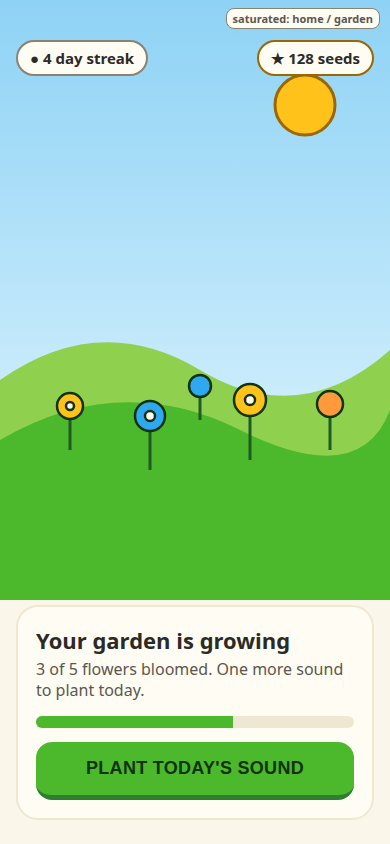
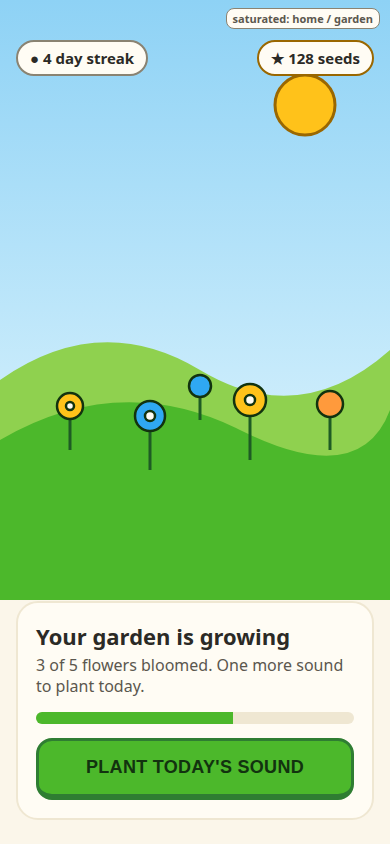
research: colour v3 - single primary action, lesson header band, hero outline ratios, feedback evidence

Changed region(s): [[0.0923, 0.7393, 0.9231, 0.955]]

diff --git a/research/mockups/colour.html b/research/mockups/colour.html
@@ -14,9 +14,9 @@
 body{background:#d9d4c4;font-family:system-ui,-apple-system,"Segoe UI",Roboto,sans-serif;color:var(--text);padding:20px;display:flex;flex-wrap:wrap;gap:20px}
 .screen{width:390px;height:844px;position:relative;overflow:hidden;background:var(--bg);flex:none}
 .btn{display:block;width:100%;border:0;border-radius:16px;padding:16px;font-size:18px;font-weight:800;letter-spacing:.3px;text-align:center}
-.btn.hero{background:var(--hero);color:var(--hero-ink);border-bottom:5px solid var(--hero-edge)}
+.btn.hero{background:var(--hero);color:var(--hero-ink);border:3px solid var(--hero-edge);border-bottom-width:6px}
 .btn.calm{background:var(--leaf);color:#fff;border-bottom:4px solid #1E5C24}
-.btn.ghost{background:var(--card);color:var(--sky);border:2px solid var(--border)}
+.btn.ghost{background:var(--card);color:var(--sky);border:2px solid var(--sky)}
 .btn.sunb{background:var(--sun-hero);color:var(--text);border-bottom:5px solid var(--sun-edge)}
 .chip{display:inline-flex;align-items:center;gap:6px;background:var(--card);border:2px solid var(--border);border-radius:999px;padding:6px 12px;font-weight:700;font-size:15px}
 .tag{position:absolute;top:8px;right:10px;font-size:11px;font-weight:700;color:var(--muted);background:var(--card);border-radius:8px;padding:2px 6px;z-index:5;border:1px solid var(--border)}
@@ -28,9 +28,9 @@ body{background:#d9d4c4;font-family:system-ui,-apple-system,"Segoe UI",Roboto,sa
 .panel h2{font-size:22px;margin-bottom:4px}.panel p{color:var(--muted);font-size:16px;margin-bottom:14px;line-height:1.35}
 .bar{height:12px;background:var(--tint);border-radius:8px;margin:10px 0 14px;overflow:hidden}.bar i{display:block;height:100%;width:62%;background:var(--hero)}
 /* lesson */
-.top{display:flex;align-items:center;gap:12px;padding:44px 20px 0}
-.prog{flex:1;height:14px;background:var(--tint);border-radius:8px;overflow:hidden}.prog i{display:block;height:100%;width:45%;background:var(--leaf);border-radius:8px}
-.prompt{padding:28px 24px 0}.prompt small{color:var(--muted);font-size:16px}
+.top{display:flex;align-items:center;gap:12px;padding:44px 20px 22px;background:linear-gradient(#8ED2F5,#BFE6FA)}
+.prog{flex:1;height:18px;background:var(--card);border:2px solid var(--hero-edge);border-radius:10px;overflow:hidden}.prog i{display:block;height:100%;width:45%;background:var(--hero);border-radius:8px}
+.prompt{padding:24px 24px 0}.prompt small{color:var(--muted);font-size:16px}
 .big{font-size:92px;font-weight:800;text-align:center;margin:18px 0 6px;letter-spacing:2px}
 .big u{text-decoration:underline;text-decoration-thickness:6px;text-decoration-color:var(--leaf);text-underline-offset:10px}
 .opts{padding:6px 20px;display:grid;gap:12px}
@@ -43,12 +43,11 @@ body{background:#d9d4c4;font-family:system-ui,-apple-system,"Segoe UI",Roboto,sa
 .sheet.r h3{color:var(--right)}.sheet.w h3{color:var(--wrong)}
 .sheet p{font-size:17px;margin-bottom:14px;line-height:1.35}
 /* reward */
-.rw{background:linear-gradient(#FFE78A,#FFC21A 70%,#F5B301)}
+.rw{background:linear-gradient(#FFE78A,#FFC21A 60%)}
 .rw .mid{position:absolute;top:120px;left:0;right:0;text-align:center}
 .rw h1{font-size:34px;margin-top:6px;color:var(--text)}.rw p{font-size:18px;margin:6px 30px;color:var(--text);line-height:1.35}
 .rw .btns{position:absolute;left:20px;right:20px;bottom:34px;display:grid;gap:12px}
 .rw .stats{display:flex;gap:10px;justify-content:center;margin-top:18px}
-.btn.dark{background:var(--text);color:#FFF6D6;border-bottom:5px solid #000}
 </style></head><body>
 
 <!-- 1 HOME -->
@@ -85,7 +84,7 @@ body{background:#d9d4c4;font-family:system-ui,-apple-system,"Segoe UI",Roboto,sa
  <div class="sheet w">
   <h3><svg width="32" height="32" viewBox="0 0 30 30"><circle cx="15" cy="15" r="14" fill="#A84A07"/><path d="M7 17c3-4 5 4 8 0s5 4 8 0" stroke="#FBE9D6" stroke-width="2.8" fill="none" stroke-linecap="round"/></svg>Try again</h3>
   <p>Close. Listen once more: "sh" is the sound in <b>ship</b>.</p>
-  <button class="btn ghost">HEAR IT AGAIN</button>
+  <button class="btn hero" style="margin-bottom:10px">TRY AGAIN</button><button class="btn ghost">HEAR IT AGAIN</button>
  </div>
 </section>
 
@@ -102,7 +101,7 @@ body{background:#d9d4c4;font-family:system-ui,-apple-system,"Segoe UI",Roboto,sa
  <div class="sheet r">
   <h3><svg width="32" height="32" viewBox="0 0 30 30"><circle cx="15" cy="15" r="14" fill="#0F766E"/><path d="M8 16l5 5 9-11" stroke="#DDF1EE" stroke-width="3.2" fill="none" stroke-linecap="round" stroke-linejoin="round"/></svg>Yes!</h3>
   <p><b>sh</b> as in <b>ship</b>. A new seed is planted.</p>
-  <button class="btn calm">CONTINUE</button>
+  <button class="btn hero">CONTINUE</button>
  </div>
 </section>
 
@@ -122,6 +121,6 @@ body{background:#d9d4c4;font-family:system-ui,-apple-system,"Segoe UI",Roboto,sa
   <p>The Sh Daisy joins your garden. 5 of 5 flowers today.</p>
   <div class="stats"><span class="chip" style="border-color:#2B2A26">&#9733; +20 seeds</span><span class="chip" style="border-color:#2B2A26">&#9679; 5 day streak</span></div>
  </div>
- <div class="btns"><button class="btn dark">SEE MY GARDEN</button><button class="btn hero" style="border-bottom-color:#1E5C24">NEXT SOUND</button></div>
+ <div class="btns"><button class="btn hero">NEXT SOUND</button><button class="btn ghost">SEE MY GARDEN</button></div>
 </section>
 </body></html>

diff --git a/research/02-colour.md b/research/02-colour.md
@@ -4,6 +4,15 @@ Scope: Sound Garden, a free no-login English reading site for children and adult
 Evidence grades: **A** primary study or peer-reviewed review, **B** expert guideline or standard, **C** blog, vendor page or practice.
 Date of research: 2026-10-09. Search tooling was flaky (several queries timed out); items I could not verify are marked "not verified" and nothing is invented.
 
+## Decisions (read first)
+
+- **Owed: live test.** No user test has been done; Kamal's playtest with his children (plus an adult learner, a colour-blind participant, a cheap phone in sun) is a build-phase gate. Everything below is research and design, not user evidence.
+- **Muted inside a lesson text area, saturated outside it** (2.2b). The lesson screen gets one saturated element outside the text area: a sky header band with a bright progress bar.
+- **One primary action colour.** Hero green `#4CB82B` with dark ink `#12330F` is the single primary button on every screen. Secondary actions are cream with a sky outline and sky text. Charcoal `#2B2A26` is text only, never a button.
+- **Hero buttons are outlined on the full perimeter** in `#2F7D32` (4.75:1 against cream), with a thicker bottom edge for the 3D feel.
+- **Right/wrong/reward:** teal check, brown-orange wobble (never red), gold with dark outline. Icon plus word plus sound, never colour alone.
+- **Default ground is cream; switcher offers peach and blue-grey.** Green text uses `--leaf-text #2A7230`.
+
 ## 1. Findings by area
 
 ### 1.1 Colour, children's learning and attention
@@ -81,6 +90,19 @@ Design consequences:
 - Avoid mid-lightness tints for state backgrounds carrying small text. Our tints are very light with dark text.
 - Dark mode is an option (night, battery on OLED). Its ground is `#111814`, near-black, not `#000000`. Reason (practice, unverified on target devices): pure black next to bright text causes smearing on slow OLED panels and very high glare contrast. Test on a real cheap OLED before promising this.
 
+### 1.7 Feedback and reward in learning games
+
+Peer-reviewed sources exist and were located; none of them is about colour. Titles, journals and DOIs were verified through Crossref. **I did not read the abstracts or papers in this session; the findings below are my recollection of their conclusions and must be re-checked before they drive a decision.**
+
+| Source | Recollected finding | Grade |
+|---|---|---|
+| Hattie & Timperley 2007, Review of Educational Research, DOI 10.3102/003465430298487 (cited 9667 times) | Feedback helps most when it is about the task and the process, and least when it is praise aimed at the person | A (recollection) |
+| Wouters et al. 2013, J Educational Psychology, DOI 10.1037/a0031311 (meta-analysis of serious games) | Serious games beat conventional instruction on learning and retention but not on motivation; they work better over multiple sessions and mixed with other instruction | A (recollection) |
+| Sailer & Homner 2019, Educational Psychology Review, DOI 10.1007/s10648-019-09498-w (gamification meta-analysis) | Small positive effects on cognitive, motivational and behavioural outcomes | A (recollection) |
+| Deci, Koestner & Ryan 1999, Psychological Bulletin, DOI 10.1037/0033-2909.125.6.627 | Expected tangible rewards undermine intrinsic motivation; verbal praise tends to enhance it | A (recollection) |
+
+Design consequences (inference, grade C): feedback copy names the sound and the word ("sh as in ship"), not "Great job!"; rewards are small, tied to the thing learned (a flower per sound) and not tangible prizes; reward screens stay brief. **No primary evidence was found on which colour or colour intensity makes feedback or rewards work better in learning games.** The right/wrong/reward hues are therefore chosen on accessibility and cultural-risk grounds only.
+
 ## 2. PROPOSED palette
 
 Garden-themed, warm-neutral ground, one deep leaf green, one sky blue, three feedback accents that do not depend on red/green discrimination.
@@ -125,16 +147,22 @@ Critic feedback: the muted set alone does not feel like a game. Fix: keep the mu
 
 Three hero candidates, tested (WCAG ratios computed in Python, label text on the hero fill):
 
-| Candidate | Fill | Label | Label ratio | White label (for comparison) | Fill vs cream ground | Edge colour (the 3D bottom border that meets the ground) | Edge vs cream |
+| Candidate | Fill | Label | Label ratio | White label (for comparison) | Fill vs cream ground | Outline colour (full perimeter, thicker at the bottom) | Edge vs cream |
 |---|---|---|---|---|---|---|---|
 | **A leaf-bright (chosen primary hero)** | `#4CB82B` | `#12330F` | 5.44:1 PASS | 2.56:1 FAIL | 2.38:1 | `#2F7D32` | 4.75:1 PASS |
 | B sun-yellow | `#FFC21A` | `#2B2A26` | 8.88:1 PASS | 1.62:1 FAIL | 1.50:1 | `#9A6700` | 4.51:1 PASS |
 | C sky-blue | `#2FA8F2` | `#2B2A26` | 5.48:1 PASS | 2.62:1 FAIL | 2.43:1 | `#1F6FB2` | 4.90:1 PASS |
 | (ref) Duolingo green | `#58CC02` | `#12330F` | 6.67:1 PASS | 2.09:1 FAIL | 1.94:1 | n/a | n/a |
 
-Findings: every saturated fill needs a **dark label** (white fails on all, as on Duolingo green). None of the fills reaches 3:1 against the cream ground on its own, so each hero button gets a 4-5 px bottom edge in its dark shade (all pass 3:1 against cream, last column) plus the label as the identifier. B (sun) is a poor main hero because it is the reward colour and is lightest (1.50:1 vs cream); keep it for reward screens, where it is the full-screen ground (dark text 7.75 to 10.18:1 across the gradient). C (sky) works as the home sky band and secondary hero. **Decision: A is the primary hero (it is the garden), B the reward ground, C the sky.** The edge of the A button on the reward ground (`#1E5C24` on `#F5B301`) is 4.34:1.
+Findings: every saturated fill needs a **dark label** (white fails on all, as on Duolingo green). None of the fills reaches 3:1 against the cream ground on its own, so each hero button is **outlined on the full perimeter** (3 px, bottom edge 6 px) in its dark shade (all pass 3:1 against cream, last column) plus the label as the identifier. B (sun) is a poor main hero because it is the reward colour and is lightest (1.50:1 vs cream); keep it for reward screens, where it is the full-screen ground (dark text 7.75 to 10.18:1 across the gradient). C (sky) works as the home sky band and secondary hero. **Decision: A is the primary hero (it is the garden), B the reward ground, C the sky.** 
 
 New tokens: `--hero #4CB82B`, `--hero-edge #2F7D32`, `--hero-ink #12330F`, `--sun-hero #FFC21A`, `--sun-edge #9A6700`, sky band `#BFE6FA` (dark text 10.89:1), hill `#CDEFA8` (dark text 11.29:1, `#1E5C24` text on it 6.32:1). Dark mode keeps its existing set; saturated screens in dark mode are not designed yet.
+
+**Hero button outline `#2F7D32`, ratio against every ground it sits on (computed):** cream `#FBF6EA` 4.75:1, card `#FFFCF4` 5.00:1, right tint `#DDF1EE` 4.36:1, wrong tint `#FBE9D6` 4.32:1, sky band end `#BFE6FA` 3.88:1, sky band top `#8ED2F5` 3.09:1, reward gold `#FFC21A` 3.17:1 (all at or above 3:1). The reward ground therefore ends at `#FFC21A`, not `#F5B301` (outline 2.76:1, would fail). The hero fill itself against the sky band is only 1.55:1, so the outline carries the shape. Secondary button: sky `#1F6FB2` outline and text on card, text 5.15:1; outline against gold `#FFC21A` 3.27:1.
+
+**Action hierarchy:** one primary per screen (hero green, dark ink), one optional secondary (cream, sky outline). Charcoal is a text colour only; the earlier charcoal "See my garden" button on the reward screen is gone. Lesson buttons (Continue, Try again) are now hero green too, so the primary looks the same in and out of lessons; the lesson stays calm because the text area, option cards and feedback sheet are still cream and tinted.
+
+**Lesson header:** a sky band (`#8ED2F5` to `#BFE6FA`) behind back arrow and progress bar, bar fill hero green in a cream track with a `#2F7D32` outline (track vs band is carried by the outline, 3.09 to 3.88:1). Everything below it is cream.
 
 ### 2.2c Mockup: judge the feel, not only the table
 
@@ -147,9 +175,9 @@ Static HTML: `research/mockups/colour.html`. Screenshots at 390x844 (Playwright/
 | Lesson, correct answer | `research/shots/colour/03-lesson-correct.png` | calm |
 | Reward | `research/shots/colour/04-reward.png` | saturated |
 
-What I saw in them: home and reward feel lively (sky, hills, gold ground, big flower) while the two lesson screens stay quiet cream with one green underline; the wrong state reads as a gentle brown-orange "Try again" with a wobble icon, not an error. Weak spots I can see: the home screen has a large empty middle; the hero green is close in value to the hill, so on home the button relies on its dark label and edge; the mockup uses emoji-free simple SVG art, not final art; picture options in the lesson are text-only.
+What I saw in them (re-screenshotted after the round-2 fixes): home and reward feel lively (sky, hills, gold ground, big flower); the lesson screens have a sky header band and bright progress bar above a quiet cream text area; every screen has one green hero button with a full outline; the wrong state reads as a gentle brown-orange "Try again" with a wobble icon and a hero "Try again" button. Weak spots I can see: the home screen has a large empty middle; the hero green is close in value to the hill, so on home the button relies on its dark label and edge; the mockup uses emoji-free simple SVG art, not final art; picture options in the lesson are text-only.
 
-**Live user testing is NOT done and is still owed.** The mockup is a design artefact, not evidence. Needed: real children and adult learners, a cheap phone, outdoors, with a colour-blind participant (see section 4).
+**Live user testing is NOT done and is still owed** (see Decisions). The mockup is a design artefact, not evidence. Needed: real children and adult learners, a cheap phone, outdoors, with a colour-blind participant (see section 4).
 
 ### 2.3 Open pairs now computed
 
@@ -239,7 +267,8 @@ Right vs wrong stays far apart in all three types (above 45). Primary green vs w
 3. Target grapheme: bold plus 3 px `--leaf` underline, not a colour fill.
 4. Garden art uses the same hues at lower saturation, behind or beside the lesson card, never behind the text.
 5. Background switcher: cream (default), peach `#FBEBDD` (Rello & Bigham warm), pale blue-grey `#EAF1F5`. All three verified in 2.3 (use `--leaf-text` for green text).
-6. Muted inside a lesson, saturated outside (2.2b). `--right` never on a leaf fill (2.3).
+6. Muted inside the lesson text area, saturated outside it (2.2b). `--right` never on a leaf fill (2.3).
+7. One primary action colour (hero green); charcoal is text only; hero buttons carry a full-perimeter outline.
 
 ## 3. Three rejected palettes
 
